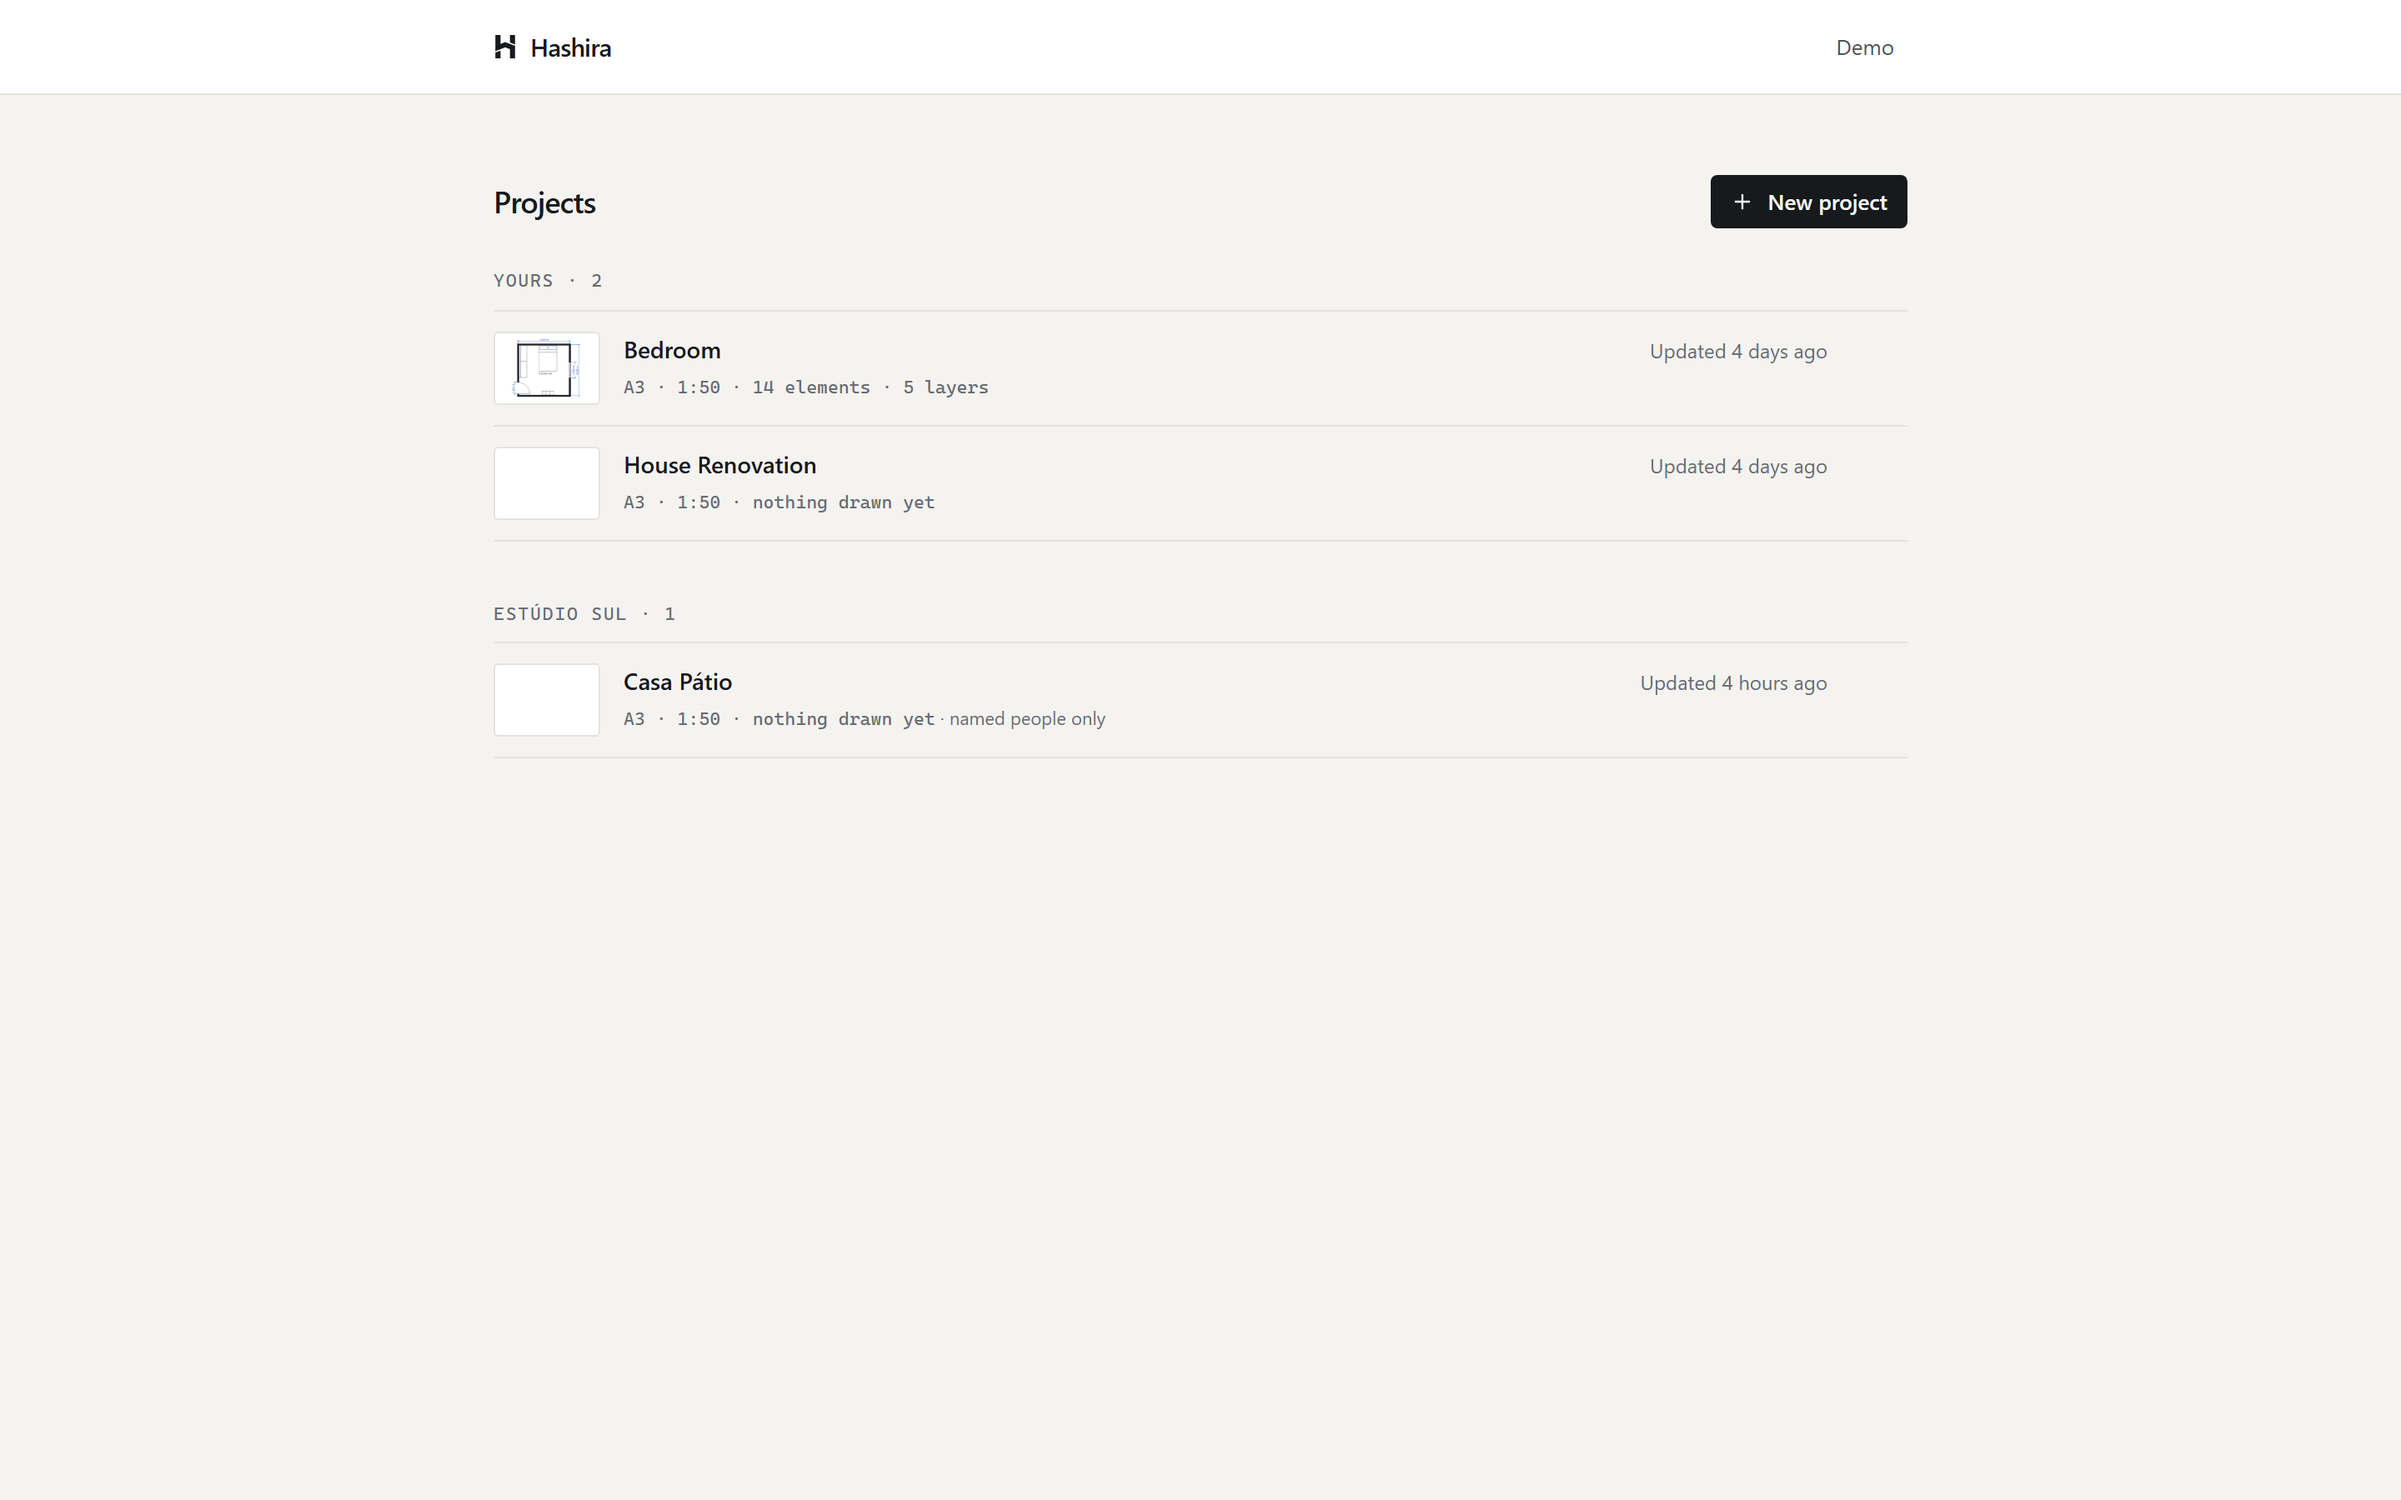
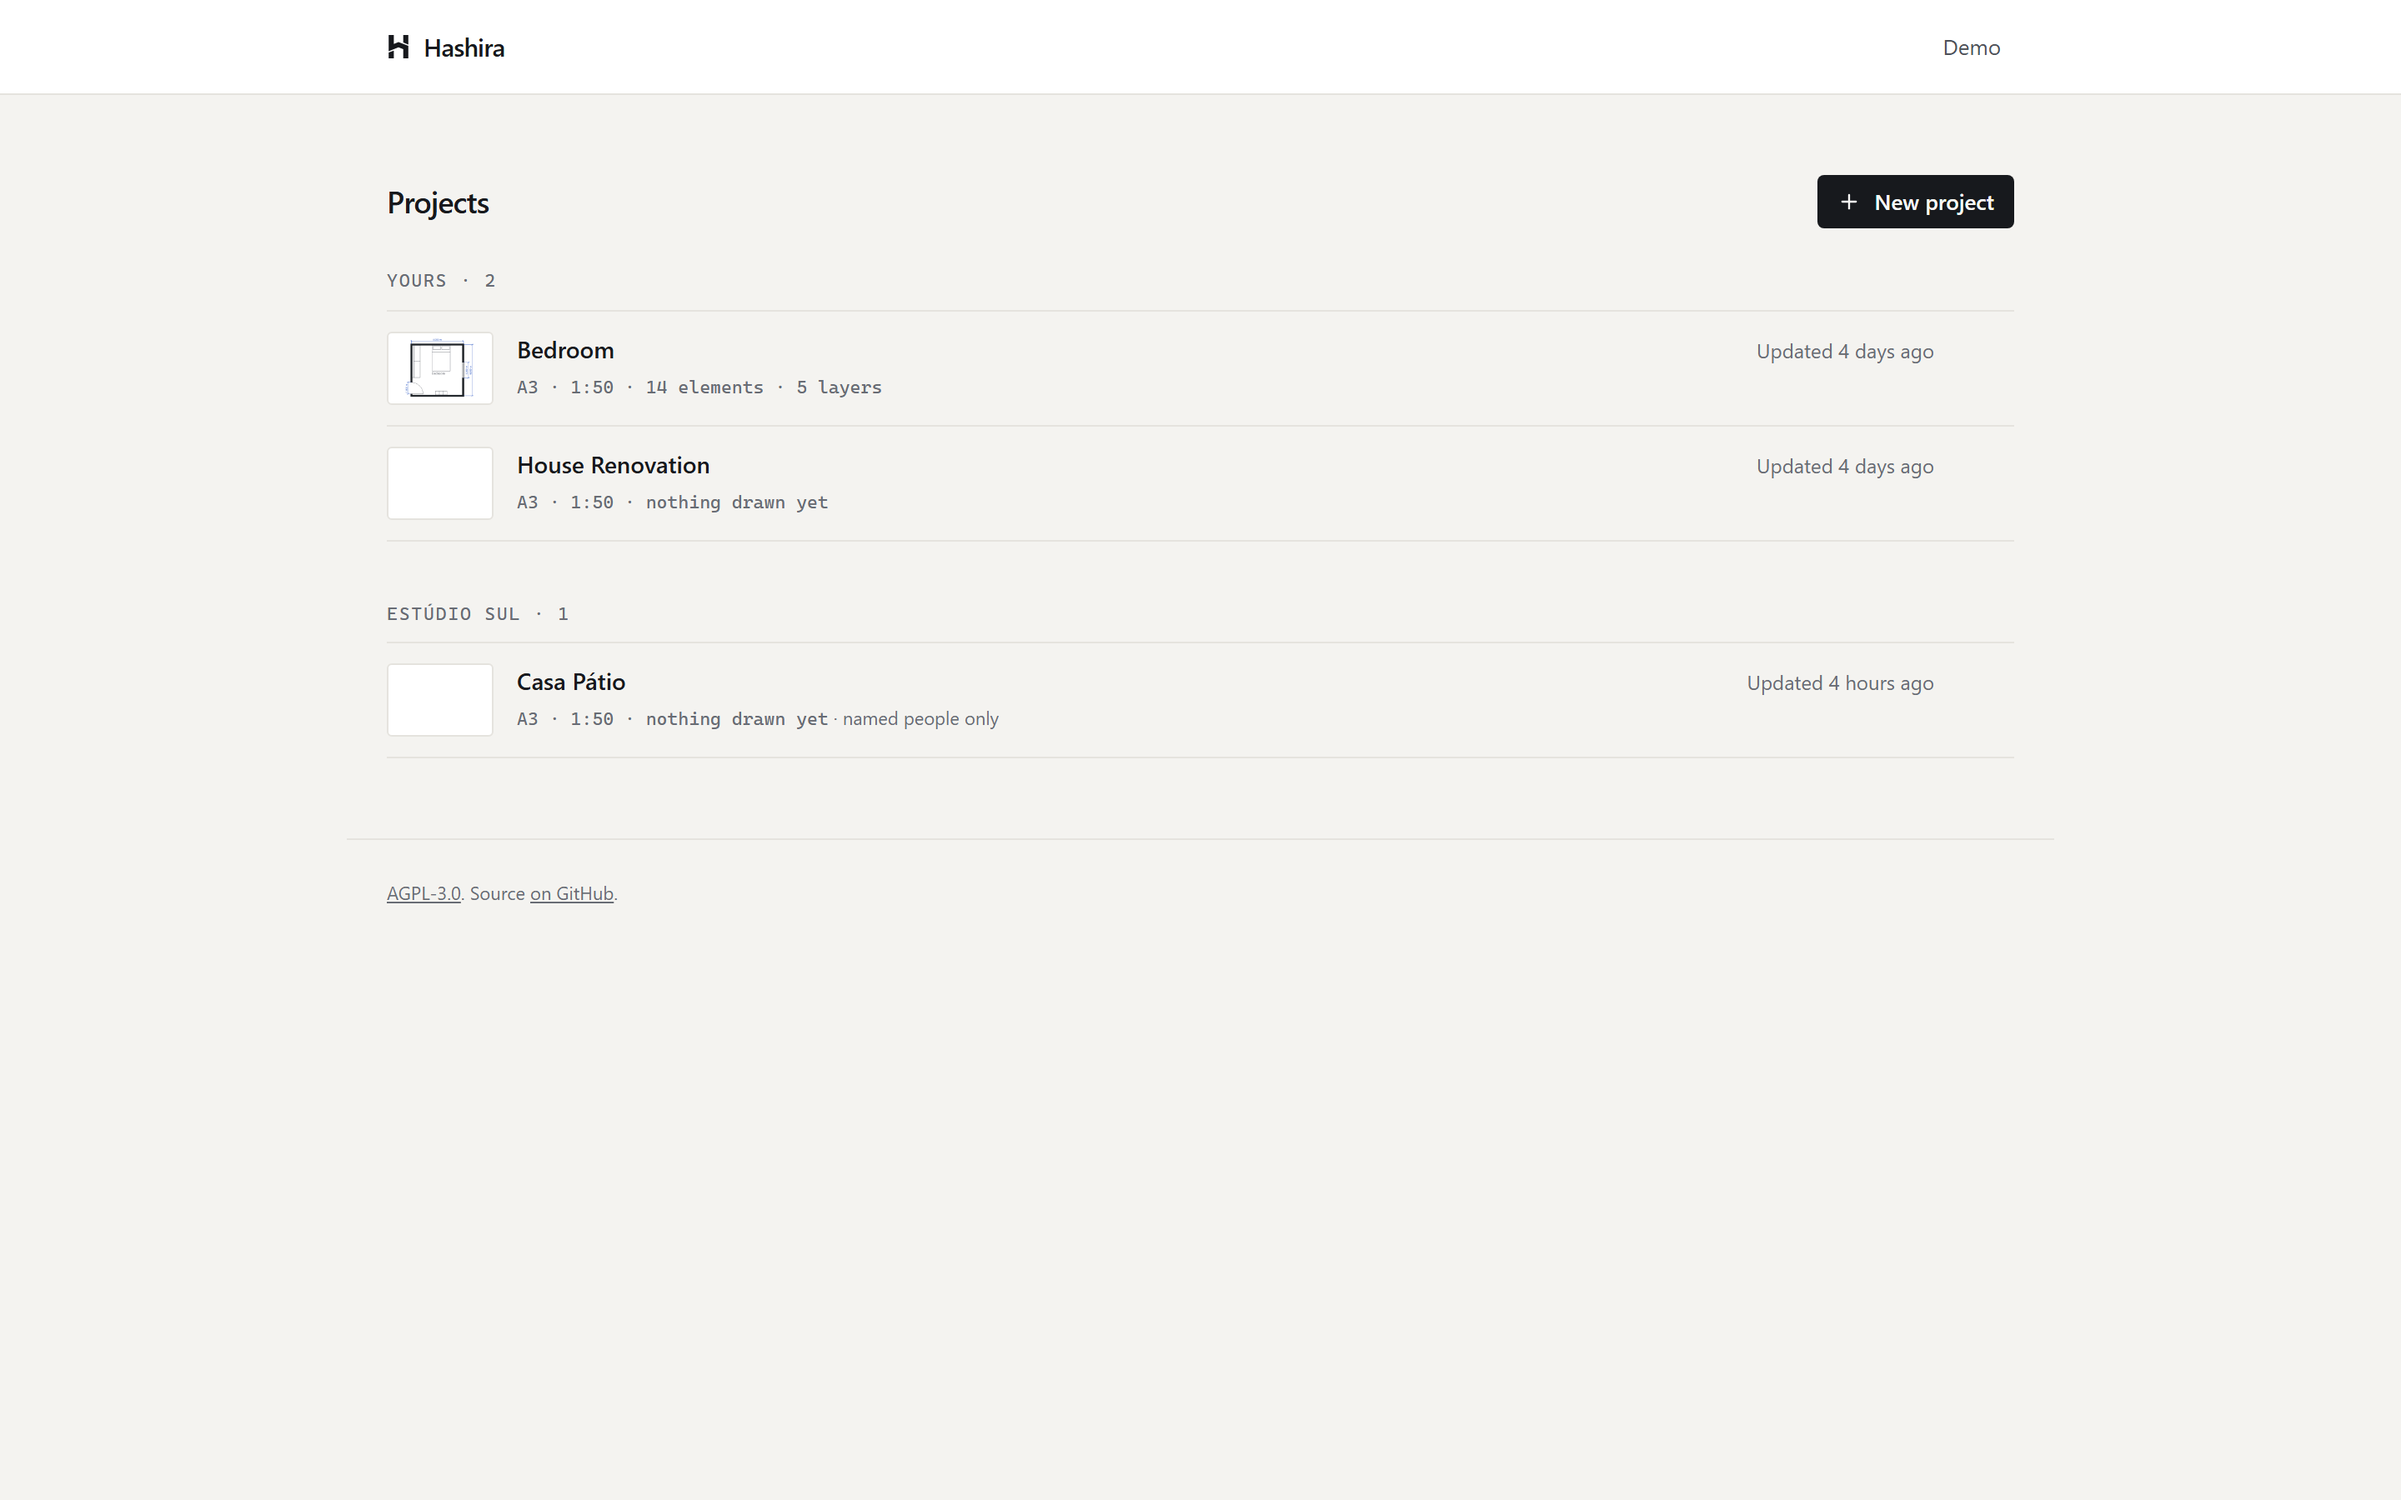
feat: a firm's heading leads to the firm, and the list says what it is running
The last of the dashboard work, and the smallest: the page's own frame rather
than what is on it.

**It is as wide as the landing page.** `max-w-4xl` against the landing's
`max-w-5xl` meant the product's two public surfaces did not line up, on the one
transition every account makes.

**Figures are tabular.** The mono line under each name and the counts in the
headings are columns of numbers, and a column of numbers that shifts between
rows is not one.

**A firm's heading leads to the firm.** Who is in it and who may be invited used
to be reachable only from inside the account menu, next to "Sign out", which
reads as a setting rather than as somewhere work happens. The menu keeps the
full list on purpose: a firm you hold no drawings in has no heading here to
click, and a menu is exactly what is good at being complete.

**The list says what it is running.** `SourceOffer` came out of `LandingPage` and
became a component, because the AGPL's §13 offer existing in two copies would be
two offers. It is in both footers now: the landing page, which every instance
serves to everybody, and the projects list, because somebody working in a
self-hosted instance signs in once and may never see the landing page again — and
an offer nobody can reach is not one. Still deliberately not in the editor.
Nothing about a licence belongs on a drawing surface.

**What is deliberately not here is the firm switcher beside the wordmark**, which
[…]

diff --git a/resources/js/pages/DashboardPage.tsx b/resources/js/pages/DashboardPage.tsx
@@ -24,6 +24,7 @@ import { Wordmark } from '@/ui/Logo';
 import { Menu, MenuItem, MenuSeparator } from '@/ui/Menu';
 import { Modal } from '@/ui/Modal';
 import { SkipLink } from '@/ui/SkipLink';
+import { SourceOffer } from '@/ui/SourceOffer';
 import { TextField } from '@/ui/TextField';
 import type { ProjectSummary } from '@/types/api';
 
@@ -136,7 +137,7 @@ export function DashboardPage() {
             <SkipLink />
 
             <header className="border-line bg-surface border-b">
-                <div className="mx-auto flex h-14 max-w-4xl items-center justify-between px-6">
+                <div className="mx-auto flex h-14 max-w-5xl items-center justify-between px-6">
                     <Wordmark />
 
                     <div className="flex items-center gap-1">
@@ -170,7 +171,7 @@ export function DashboardPage() {
                 </div>
             </header>
 
-            <main id="content" className="mx-auto max-w-4xl px-6 py-10 sm:py-12">
+            <main id="content" className="mx-auto max-w-5xl px-6 py-10 sm:py-12">
                 {invitations.length > 0 && (
                     <ul className="border-line mb-8 border-t">
                         {invitations.map((invitation) => (
@@ -331,7 +332,25 @@ export function DashboardPage() {
                                         index > 0 && 'mt-9',
                                     )}
                                 >
-                                    {group.name} · {group.projects.length}
+                                    {/*
+                                     * A firm's heading leads to the firm — who is in it, and
+                                     * who may be invited. It used to be reachable only from
+                                     * inside the account menu, next to "Sign out", which reads
+                                     * as a setting rather than as somewhere work happens. The
+                                     * menu keeps the full list, because a firm you have no
+                                     * drawings in has no heading here to click.
+                                     */}
+                                    {group.organisationId === null ? (
+                                        group.name
+                                    ) : (
+                                        <Link
+                                            to={`/organisations/${group.organisationId}`}
+                                            className="hover:text-ink rounded-sm transition-colors"
+                                        >
+                                            {group.name}
+                                        </Link>
+                                    )}{' '}
+                                    <span className="tabular-nums">· {group.projects.length}</span>
                                 </h2>
                             )}
 
@@ -370,7 +389,7 @@ export function DashboardPage() {
                                     )}
                                     aria-hidden
                                 />
-                                Archived · {shelf.length}
+                                <span className="tabular-nums">Archived · {shelf.length}</span>
                             </button>
 
                             {archiveOpen && (
@@ -388,6 +407,17 @@ export function DashboardPage() {
                     )}
                 </div>
             </main>
+
+            {/*
+             * What this instance is, and the offer the AGPL asks for. It is on the landing page
+             * too — but somebody working in a self-hosted instance signs in once and may never
+             * see that page again, and an offer nobody can reach is not one.
+             */}
+            <footer className="border-line mx-auto max-w-5xl border-t px-6 py-6">
+                <p className="text-ink-subtle text-[11px]">
+                    <SourceOffer />
+                </p>
+            </footer>
 
             <Modal
                 open={pending !== null}
@@ -636,7 +666,7 @@ function ProjectMeta({ project, ownerNamed }: { project: ProjectSummary; ownerNa
     if (drawing === null && access.length === 0) return null;
 
     return (
-        <span className="text-ink-subtle mt-1 block text-[11px]">
+        <span className="text-ink-subtle mt-1 block text-[11px] tabular-nums">
             {drawing !== null && <span className="font-mono">{drawing}</span>}
             {drawing !== null && access.length > 0 && ' · '}
             {access.join(' · ')}

diff --git a/resources/js/pages/LandingPage.tsx b/resources/js/pages/LandingPage.tsx
@@ -3,8 +3,8 @@ import type { ReactNode } from 'react';
 import { Link } from 'react-router-dom';
 
 import { useAuth } from '@/auth/useAuth';
-import { runtimeConfig } from '@/lib/runtimeConfig';
 import { Wordmark } from '@/ui/Logo';
+import { SourceOffer } from '@/ui/SourceOffer';
 import { SkipLink } from '@/ui/SkipLink';
 
 import { PlanDrawing } from './landing/PlanDrawing';
@@ -240,37 +240,6 @@ export function LandingPage() {
                 </div>
             </footer>
         </div>
-    );
-}
-
-/**
- * The licence, and where to get the source of *this* instance.
- *
- * The AGPL asks that people using a program over a network be offered its source, and an offer
- * pointing at the default branch is not one: the branch is not what they are talking to. So a
- * released image links its own commit, which the release workflow baked in, and says which
- * version that was. A checkout or a locally built image has neither, and links the repository
- * without claiming to know — offering the wrong source would be worse than offering none.
- *
- * It lives in the landing page's footer because that is the one page every instance serves to
- * everybody, signed in or not. It is deliberately not in the editor: nothing about a licence
- * belongs on a drawing surface.
- */
-function SourceOffer() {
-    const { repository, version, commit } = runtimeConfig().source;
-    const ref = commit === '' ? 'main' : commit;
-
-    return (
-        <>
-            <a href={`${repository}/blob/${ref}/LICENSE`} className="rounded-sm underline">
-                AGPL-3.0
-            </a>
-            . Source{' '}
-            <a href={`${repository}/tree/${ref}`} className="rounded-sm underline">
-                {version === '' ? 'on GitHub' : `for ${version}`}
-            </a>
-            .
-        </>
     );
 }
 

diff --git a/resources/js/ui/SourceOffer.tsx b/resources/js/ui/SourceOffer.tsx
@@ -1,0 +1,36 @@
+import { runtimeConfig } from '@/lib/runtimeConfig';
+
+/**
+ * The licence, and where to get the source of *this* instance.
+ *
+ * The AGPL asks that people using a program over a network be offered its source, and an offer
+ * pointing at the default branch is not one: the branch is not what they are talking to. So a
+ * released image links its own commit, which the release workflow baked in, and says which
+ * version that was. A checkout or a locally built image has neither, and links the repository
+ * without claiming to know — offering the wrong source would be worse than offering none.
+ *
+ * It is in two footers and one component, which is the point of it being a component: the
+ * landing page, because that is the one page every instance serves to everybody signed in or
+ * not, and the projects list, because somebody working in a self-hosted instance may sign in
+ * once and never see the landing page again — and an offer they cannot reach is not one.
+ *
+ * It is deliberately still not in the editor. Nothing about a licence belongs on a drawing
+ * surface, and a person who is drawing has a way back to the list.
+ */
+export function SourceOffer() {
+    const { repository, version, commit } = runtimeConfig().source;
+    const ref = commit === '' ? 'main' : commit;
+
+    return (
+        <>
+            <a href={`${repository}/blob/${ref}/LICENSE`} className="rounded-sm underline">
+                AGPL-3.0
+            </a>
+            . Source{' '}
+            <a href={`${repository}/tree/${ref}`} className="rounded-sm underline">
+                {version === '' ? 'on GitHub' : `for ${version}`}
+            </a>
+            .
+        </>
+    );
+}

diff --git a/resources/js/projects/list.ts b/resources/js/projects/list.ts
@@ -38,6 +38,8 @@ export interface ProjectGroup {
      * second holds drawings belonging to several different people, so those rows still say.
      */
     namesOwner: boolean;
+    /** The firm this section is, when it is one — so its heading can lead to it. */
+    organisationId: string | null;
     projects: ProjectSummary[];
 }
 
@@ -115,6 +117,7 @@ export function arrangeProjects(
         const group = firms.get(firm) ?? {
             id: `firm:${firm}`,
             namesOwner: true,
+            organisationId: firm,
             // Sent for every firm's project, including to the admins who hold `owner` in it —
             // which is the one case where "only worth saying about somebody else's" was wrong.
             name: project.ownerName ?? 'A firm',
@@ -126,9 +129,15 @@ export function arrangeProjects(
     }
 
     return [
-        { id: 'yours', name: 'Yours', namesOwner: false, projects: yours },
+        { id: 'yours', name: 'Yours', namesOwner: false, organisationId: null, projects: yours },
         ...[...firms.values()].sort((a, b) => a.name.localeCompare(b.name)),
-        { id: 'shared', name: 'Shared with you', namesOwner: false, projects: shared },
+        {
+            id: 'shared',
+            name: 'Shared with you',
+            namesOwner: false,
+            organisationId: null,
+            projects: shared,
+        },
     ].filter((group) => group.projects.length > 0);
 }
 

diff --git a/resources/js/projects/list.test.ts b/resources/js/projects/list.test.ts
@@ -111,6 +111,18 @@ describe('the sections a person thinks in', () => {
         expect(names(groups[1]?.projects ?? [])).toEqual(['Warehouse']);
     });
 
+    // The heading of a firm's section leads to the firm; the other two lead nowhere, because
+    // "Yours" and "Shared with you" are not places.
+    it('carries the firm a section is, and nothing for the sections that are not one', () => {
+        const groups = arrangeProjects([
+            project({ name: 'Bedroom' }),
+            project({ name: 'Warehouse', organisationId: 'o1', ownerName: 'Ateliê Norte' }),
+            project({ name: 'Ana’s flat', role: 'editor', ownerName: 'Ana' }),
+        ]);
+
+        expect(groups.map((group) => group.organisationId)).toEqual([null, 'o1', null]);
+    });
+
     // Which headings are somebody's name, so the rows under them need not say it again.
     it('marks the sections whose heading is the owner’s name', () => {
         const groups = arrangeProjects([
